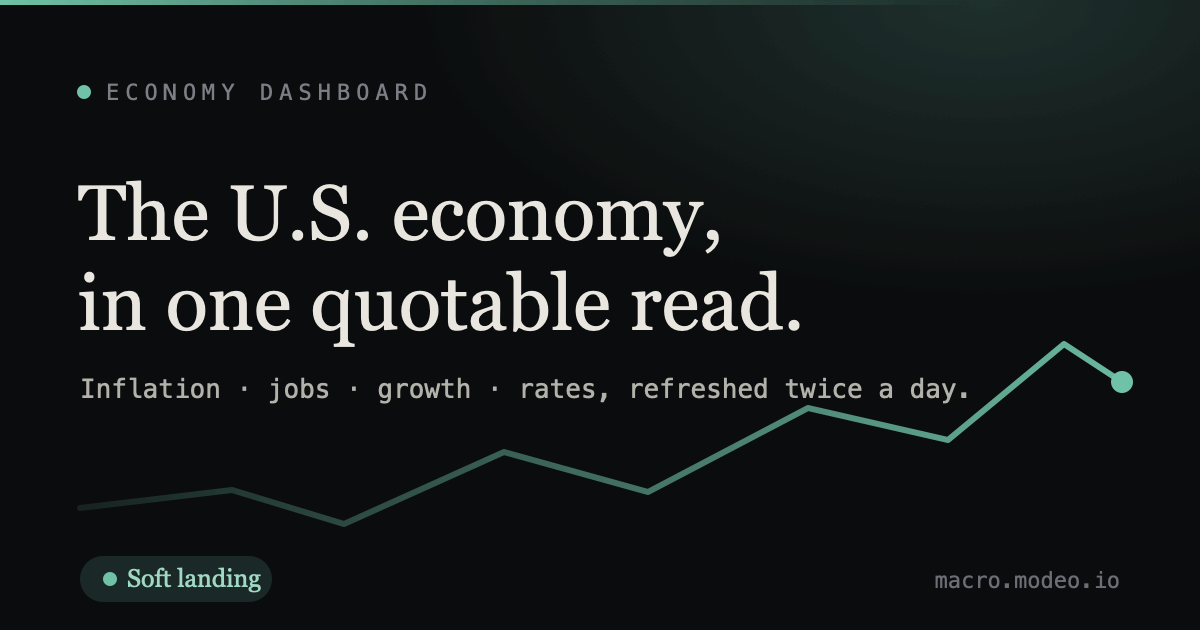
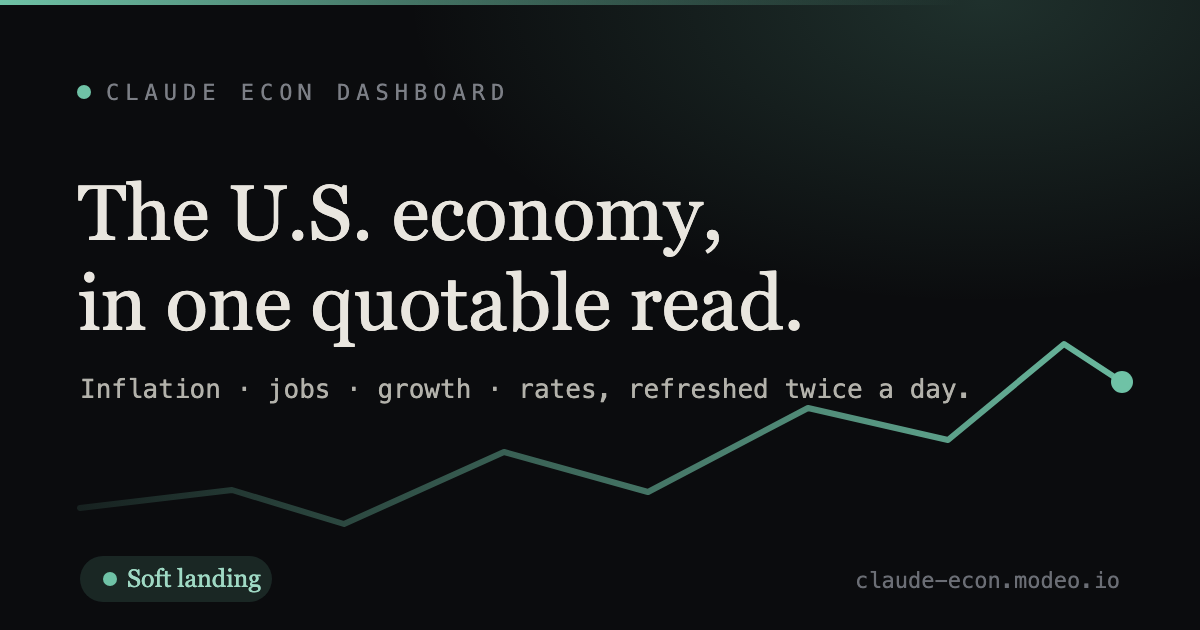
Point canonical/OG URLs at claude-econ.modeo.io; re-render OG images

Changed region(s): [[0.0925, 0.1206, 0.4317, 0.181], [0.7092, 0.9048, 0.8325, 0.9349]]

diff --git a/public/index.html b/public/index.html
@@ -9,15 +9,15 @@
   <meta name="apple-mobile-web-app-status-bar-style" content="black-translucent" />
   <meta name="apple-mobile-web-app-title" content="Econ" />
   <title>Claude Econ Dashboard</title>
-  <link rel="canonical" href="https://macro.modeo.io/" />
+  <link rel="canonical" href="https://claude-econ.modeo.io/" />
 
   <!-- Social link preview (Open Graph — iMessage/SMS, Slack, etc.) -->
   <meta property="og:type" content="website" />
   <meta property="og:site_name" content="Claude Econ Dashboard" />
   <meta property="og:title" content="Claude Econ Dashboard" />
   <meta property="og:description" content="The U.S. economy in one quotable read. A daily macro briefing on inflation, jobs, growth, and rates — refreshed twice a day." />
-  <meta property="og:url" content="https://macro.modeo.io/" />
-  <meta property="og:image" content="https://macro.modeo.io/og-cover-wide.png" />
+  <meta property="og:url" content="https://claude-econ.modeo.io/" />
+  <meta property="og:image" content="https://claude-econ.modeo.io/og-cover-wide.png" />
   <meta property="og:image:type" content="image/png" />
   <meta property="og:image:width" content="1200" />
   <meta property="og:image:height" content="630" />
@@ -25,7 +25,7 @@
   <meta name="twitter:card" content="summary_large_image" />
   <meta name="twitter:title" content="Claude Econ Dashboard" />
   <meta name="twitter:description" content="The U.S. economy in one quotable read — inflation, jobs, growth, and rates, refreshed twice a day." />
-  <meta name="twitter:image" content="https://macro.modeo.io/og-cover-wide.png" />
+  <meta name="twitter:image" content="https://claude-econ.modeo.io/og-cover-wide.png" />
 
   <link rel="manifest" href="manifest.webmanifest" />
   <!-- favicons: SVG for modern browsers (Chrome), PNG fallbacks (Safari), PNG apple-touch (iOS) -->

diff --git a/public/methodology.html b/public/methodology.html
@@ -6,7 +6,7 @@
   <meta name="theme-color" content="#0b0c0e" />
   <meta name="description" content="How the Daily Macro Briefing is made: 26 public indicators, a rules-only regime call, one constrained language model, and a validator that re-checks every number against the source." />
   <title>Methodology — Claude Econ Dashboard</title>
-  <link rel="canonical" href="https://macro.modeo.io/methodology" />
+  <link rel="canonical" href="https://claude-econ.modeo.io/methodology" />
   <link rel="icon" type="image/svg+xml" href="icon.svg" />
   <link rel="icon" type="image/png" sizes="32x32" href="favicon-32x32.png" />
   <link rel="preconnect" href="https://fonts.googleapis.com" />
@@ -18,10 +18,10 @@
     "@context": "https://schema.org",
     "@type": "WebPage",
     "name": "Methodology",
-    "url": "https://macro.modeo.io/methodology",
+    "url": "https://claude-econ.modeo.io/methodology",
     "description": "How the Daily Macro Briefing is made: 26 public indicators, a rules-only regime call, one constrained language model, and a validator that re-checks every number against the source.",
     "dateModified": "2026-08-20",
-    "isPartOf": { "@type": "WebSite", "name": "Claude Econ Dashboard", "url": "https://macro.modeo.io/" },
+    "isPartOf": { "@type": "WebSite", "name": "Claude Econ Dashboard", "url": "https://claude-econ.modeo.io/" },
     "publisher": { "@type": "Organization", "name": "Modeo", "url": "https://modeo.io" }
   }
   </script>

diff --git a/tools/macro-widget.js b/tools/macro-widget.js
@@ -27,7 +27,7 @@
 //     shows the last good briefing (clearly dated) rather than a failure.
 // =============================================================================
 
-const BASE = "https://macro.modeo.io";
+const BASE = "https://claude-econ.modeo.io";
 const CACHE_FILE = "macro-widget-cache.json";
 const REFRESH_MINUTES = 30;
 

diff --git a/README.md b/README.md
@@ -29,9 +29,8 @@ fires until AWS and GitHub secrets are wired and those blocks are restored.
 4. GitHub Actions secrets: `AWS_REGION`, `AWS_ACCESS_KEY_ID`, `AWS_SECRET_ACCESS_KEY`, plus the
    existing `FRED_API_KEY`, optional source keys, healthcheck URLs and `ALERT_SLACK_WEBHOOK`.
    Use new healthchecks for this repo; pinging the original's checks would mix the two signals.
-5. Cloudflare Pages project serving `public/` on its own subdomain. `public/index.html` and
-   `public/methodology.html` still carry `macro.modeo.io` canonical/OG URLs; change them to the new
-   subdomain. The OG PNGs still read "Economy Dashboard"; re-render them from the updated SVGs.
+5. Cloudflare Pages project serving `public/` on `claude-econ.modeo.io` (canonical/OG URLs and
+   OG images already point there).
 6. Then uncomment the schedules and `wrangler deploy` the Worker (CLAUDE.md: editing the workflow
    schedule alone is inert while the Worker dispatches).
 
